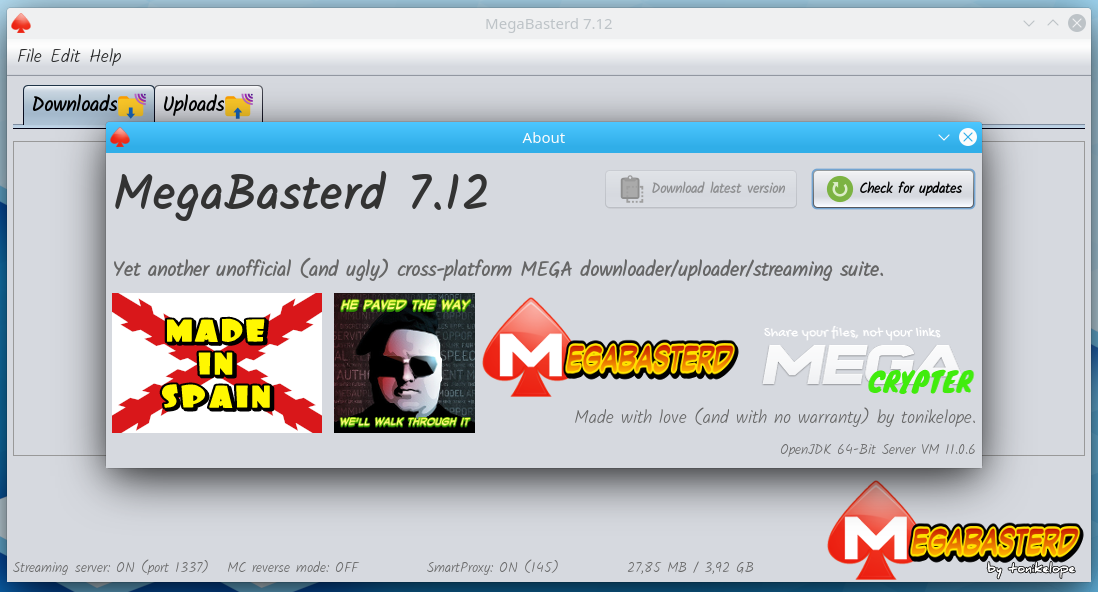
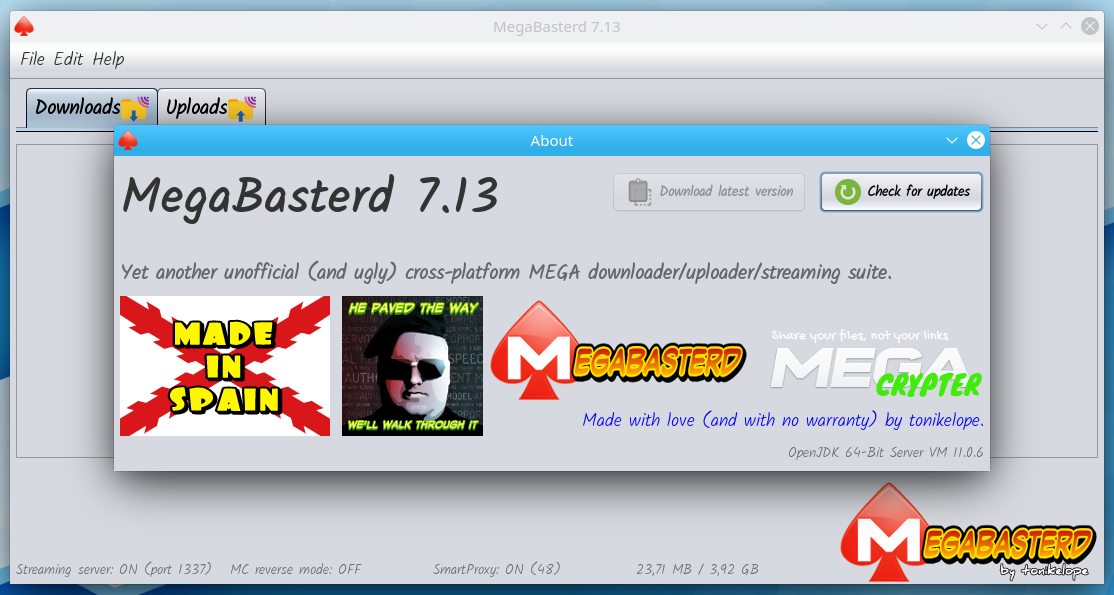
7.13
-Test button for external command run on 509 error

Changed region(s): [[0.0, 0.0, 1.0, 1.0], [0.3716, 0.9426, 0.5264, 0.973], [0.5574, 0.9426, 0.6812, 0.973]]

diff --git a/src/main/java/com/tonikelope/megabasterd/SettingsDialog.java b/src/main/java/com/tonikelope/megabasterd/SettingsDialog.java
@@ -690,6 +690,8 @@ public class SettingsDialog extends javax.swing.JDialog {
         jSeparator15 = new javax.swing.JSeparator();
         run_command_checkbox = new javax.swing.JCheckBox();
         run_command_textbox = new javax.swing.JTextField();
+        run_command_textbox.addMouseListener(new ContextMenuMouseListener());
+        run_command_test_button = new javax.swing.JButton();
         status = new javax.swing.JLabel();
 
         setDefaultCloseOperation(javax.swing.WindowConstants.DISPOSE_ON_CLOSE);
@@ -1474,6 +1476,14 @@ public class SettingsDialog extends javax.swing.JDialog {
         run_command_textbox.setDoubleBuffered(true);
         run_command_textbox.setEnabled(false);
 
+        run_command_test_button.setFont(new java.awt.Font("Dialog", 1, 18)); // NOI18N
+        run_command_test_button.setText("Test");
+        run_command_test_button.addActionListener(new java.awt.event.ActionListener() {
+            public void actionPerformed(java.awt.event.ActionEvent evt) {
+                run_command_test_buttonActionPerformed(evt);
+            }
+        });
+
         javax.swing.GroupLayout advanced_panelLayout = new javax.swing.GroupLayout(advanced_panel);
         advanced_panel.setLayout(advanced_panelLayout);
         advanced_panelLayout.setHorizontalGroup(
@@ -1509,15 +1519,18 @@ public class SettingsDialog extends javax.swing.JDialog {
                             .addComponent(jButton1, javax.swing.GroupLayout.DEFAULT_SIZE, javax.swing.GroupLayout.DEFAULT_SIZE, Short.MAX_VALUE)))
                     .addComponent(proxy_panel, javax.swing.GroupLayout.Alignment.LEADING, javax.swing.GroupLayout.DEFAULT_SIZE, javax.swing.GroupLayout.DEFAULT_SIZE, Short.MAX_VALUE)
                     .addGroup(javax.swing.GroupLayout.Alignment.LEADING, advanced_panelLayout.createSequentialGroup()
-                        .addGroup(advanced_panelLayout.createParallelGroup(javax.swing.GroupLayout.Alignment.LEADING)
-                            .addComponent(run_command_checkbox)
-                            .addComponent(start_frozen_checkbox)
-                            .addComponent(custom_chunks_dir_checkbox)
-                            .addGroup(advanced_panelLayout.createSequentialGroup()
+                        .addGroup(advanced_panelLayout.createParallelGroup(javax.swing.GroupLayout.Alignment.TRAILING)
+                            .addComponent(start_frozen_checkbox, javax.swing.GroupLayout.Alignment.LEADING)
+                            .addComponent(custom_chunks_dir_checkbox, javax.swing.GroupLayout.Alignment.LEADING)
+                            .addGroup(javax.swing.GroupLayout.Alignment.LEADING, advanced_panelLayout.createSequentialGroup()
                                 .addComponent(custom_chunks_dir_button)
                                 .addPreferredGap(javax.swing.LayoutStyle.ComponentPlacement.RELATED)
                                 .addComponent(custom_chunks_dir_current_label))
-                            .addComponent(rec_zoom_label))
+                            .addComponent(rec_zoom_label, javax.swing.GroupLayout.Alignment.LEADING)
+                            .addGroup(javax.swing.GroupLayout.Alignment.LEADING, advanced_panelLayout.createSequentialGroup()
+                                .addComponent(run_command_checkbox)
+                                .addPreferredGap(javax.swing.LayoutStyle.ComponentPlacement.RELATED)
+                                .addComponent(run_command_test_button)))
                         .addGap(0, 0, Short.MAX_VALUE)))
                 .addContainerGap())
         );
@@ -1554,7 +1567,9 @@ public class SettingsDialog extends javax.swing.JDialog {
                 .addPreferredGap(javax.swing.LayoutStyle.ComponentPlacement.UNRELATED)
                 .addComponent(jSeparator15, javax.swing.GroupLayout.PREFERRED_SIZE, 8, javax.swing.GroupLayout.PREFERRED_SIZE)
                 .addPreferredGap(javax.swing.LayoutStyle.ComponentPlacement.UNRELATED)
-                .addComponent(run_command_checkbox)
+                .addGroup(advanced_panelLayout.createParallelGroup(javax.swing.GroupLayout.Alignment.BASELINE)
+                    .addComponent(run_command_checkbox)
+                    .addComponent(run_command_test_button))
                 .addPreferredGap(javax.swing.LayoutStyle.ComponentPlacement.RELATED)
                 .addComponent(run_command_textbox, javax.swing.GroupLayout.PREFERRED_SIZE, javax.swing.GroupLayout.DEFAULT_SIZE, javax.swing.GroupLayout.PREFERRED_SIZE)
                 .addPreferredGap(javax.swing.LayoutStyle.ComponentPlacement.UNRELATED)
@@ -2794,6 +2809,20 @@ public class SettingsDialog extends javax.swing.JDialog {
 
     }//GEN-LAST:event_run_command_checkboxActionPerformed
 
+    private void run_command_test_buttonActionPerformed(java.awt.event.ActionEvent evt) {//GEN-FIRST:event_run_command_test_buttonActionPerformed
+        // TODO add your handling code here:
+
+        if (run_command_textbox.getText() != null && !"".equals(run_command_textbox.getText().trim())) {
+
+            try {
+                Runtime.getRuntime().exec(run_command_textbox.getText().trim());
+            } catch (IOException ex) {
+                Logger.getLogger(MiscTools.class.getName()).log(Level.SEVERE, ex.getMessage());
+                JOptionPane.showMessageDialog(this, ex.getMessage(), "Error", JOptionPane.ERROR_MESSAGE);
+            }
+        }
+    }//GEN-LAST:event_run_command_test_buttonActionPerformed
+
     // Variables declaration - do not modify//GEN-BEGIN:variables
     private javax.swing.JPanel accounts_panel;
     private javax.swing.JButton add_elc_account_button;
@@ -2879,6 +2908,7 @@ public class SettingsDialog extends javax.swing.JDialog {
     private javax.swing.JButton remove_elc_account_button;
     private javax.swing.JButton remove_mega_account_button;
     private javax.swing.JCheckBox run_command_checkbox;
+    private javax.swing.JButton run_command_test_button;
     private javax.swing.JTextField run_command_textbox;
     private javax.swing.JButton save_button;
     private javax.swing.JCheckBox smart_proxy_checkbox;

diff --git a/src/main/java/com/tonikelope/megabasterd/MainPanel.java b/src/main/java/com/tonikelope/megabasterd/MainPanel.java
@@ -55,7 +55,7 @@ import javax.swing.UIManager;
  */
 public final class MainPanel {
 
-    public static final String VERSION = "7.12";
+    public static final String VERSION = "7.13";
     public static final boolean FORCE_SMART_PROXY = false; //TRUE FOR DEBUGING SMART PROXY
     public static final int THROTTLE_SLICE_SIZE = 16 * 1024;
     public static final int DEFAULT_BYTE_BUFFER_SIZE = 16 * 1024;
